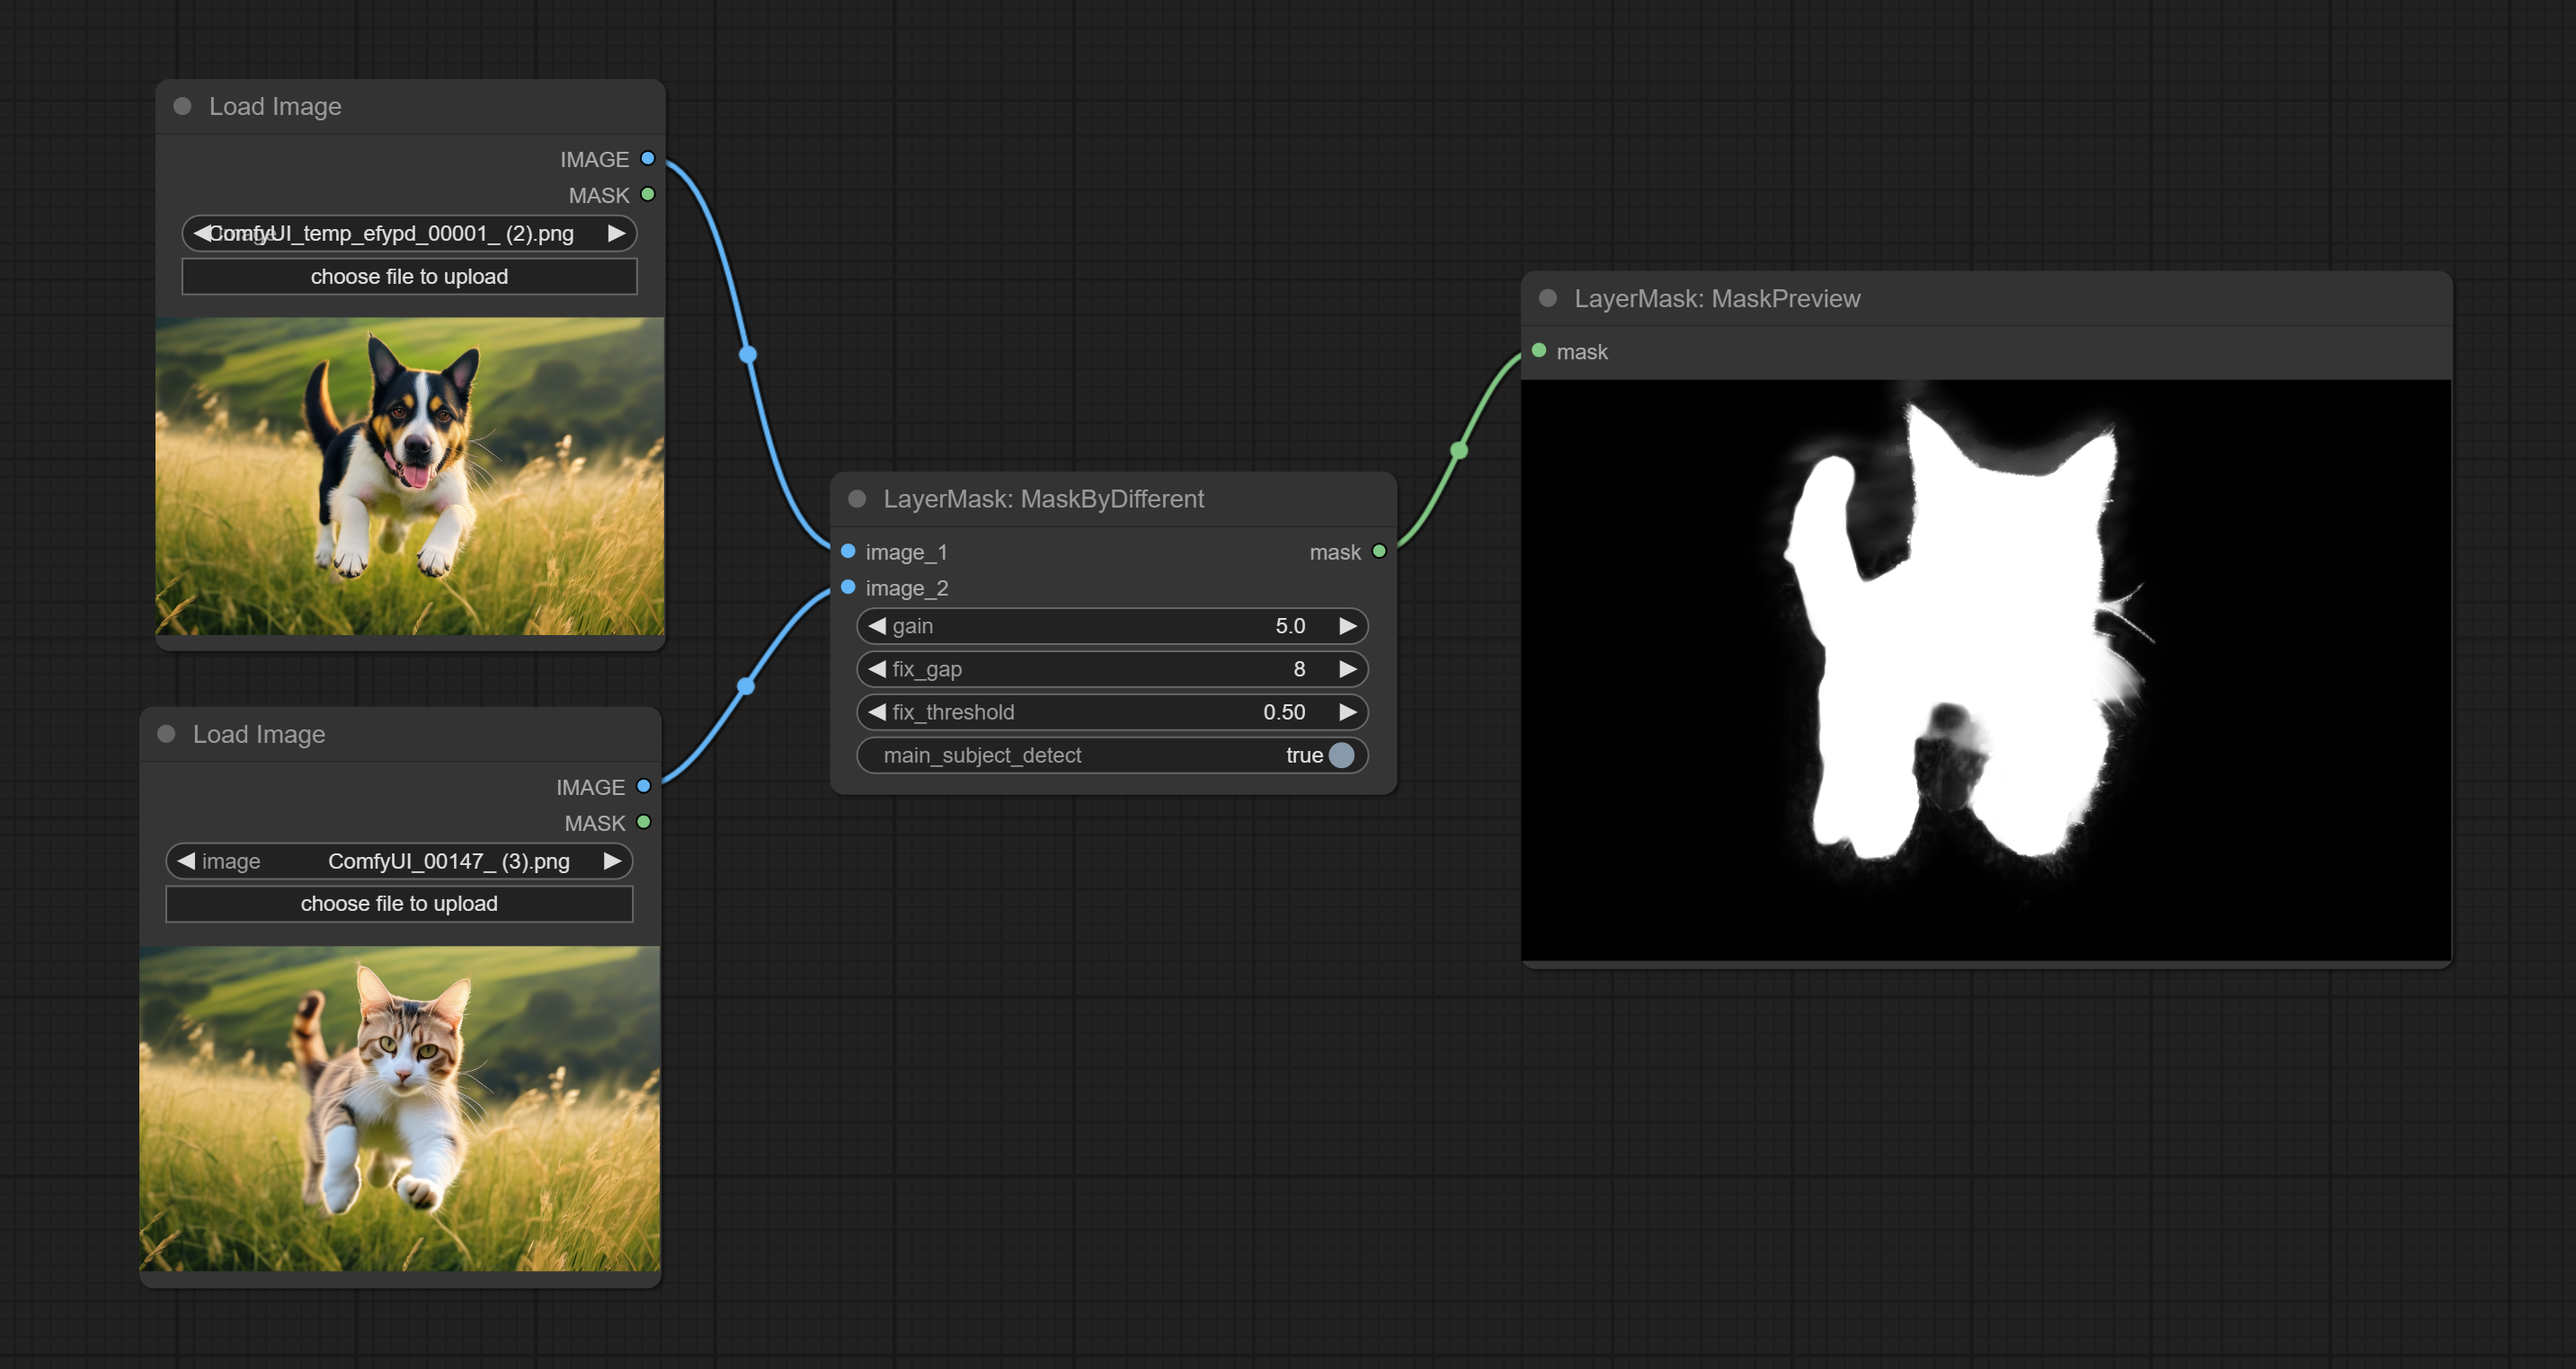
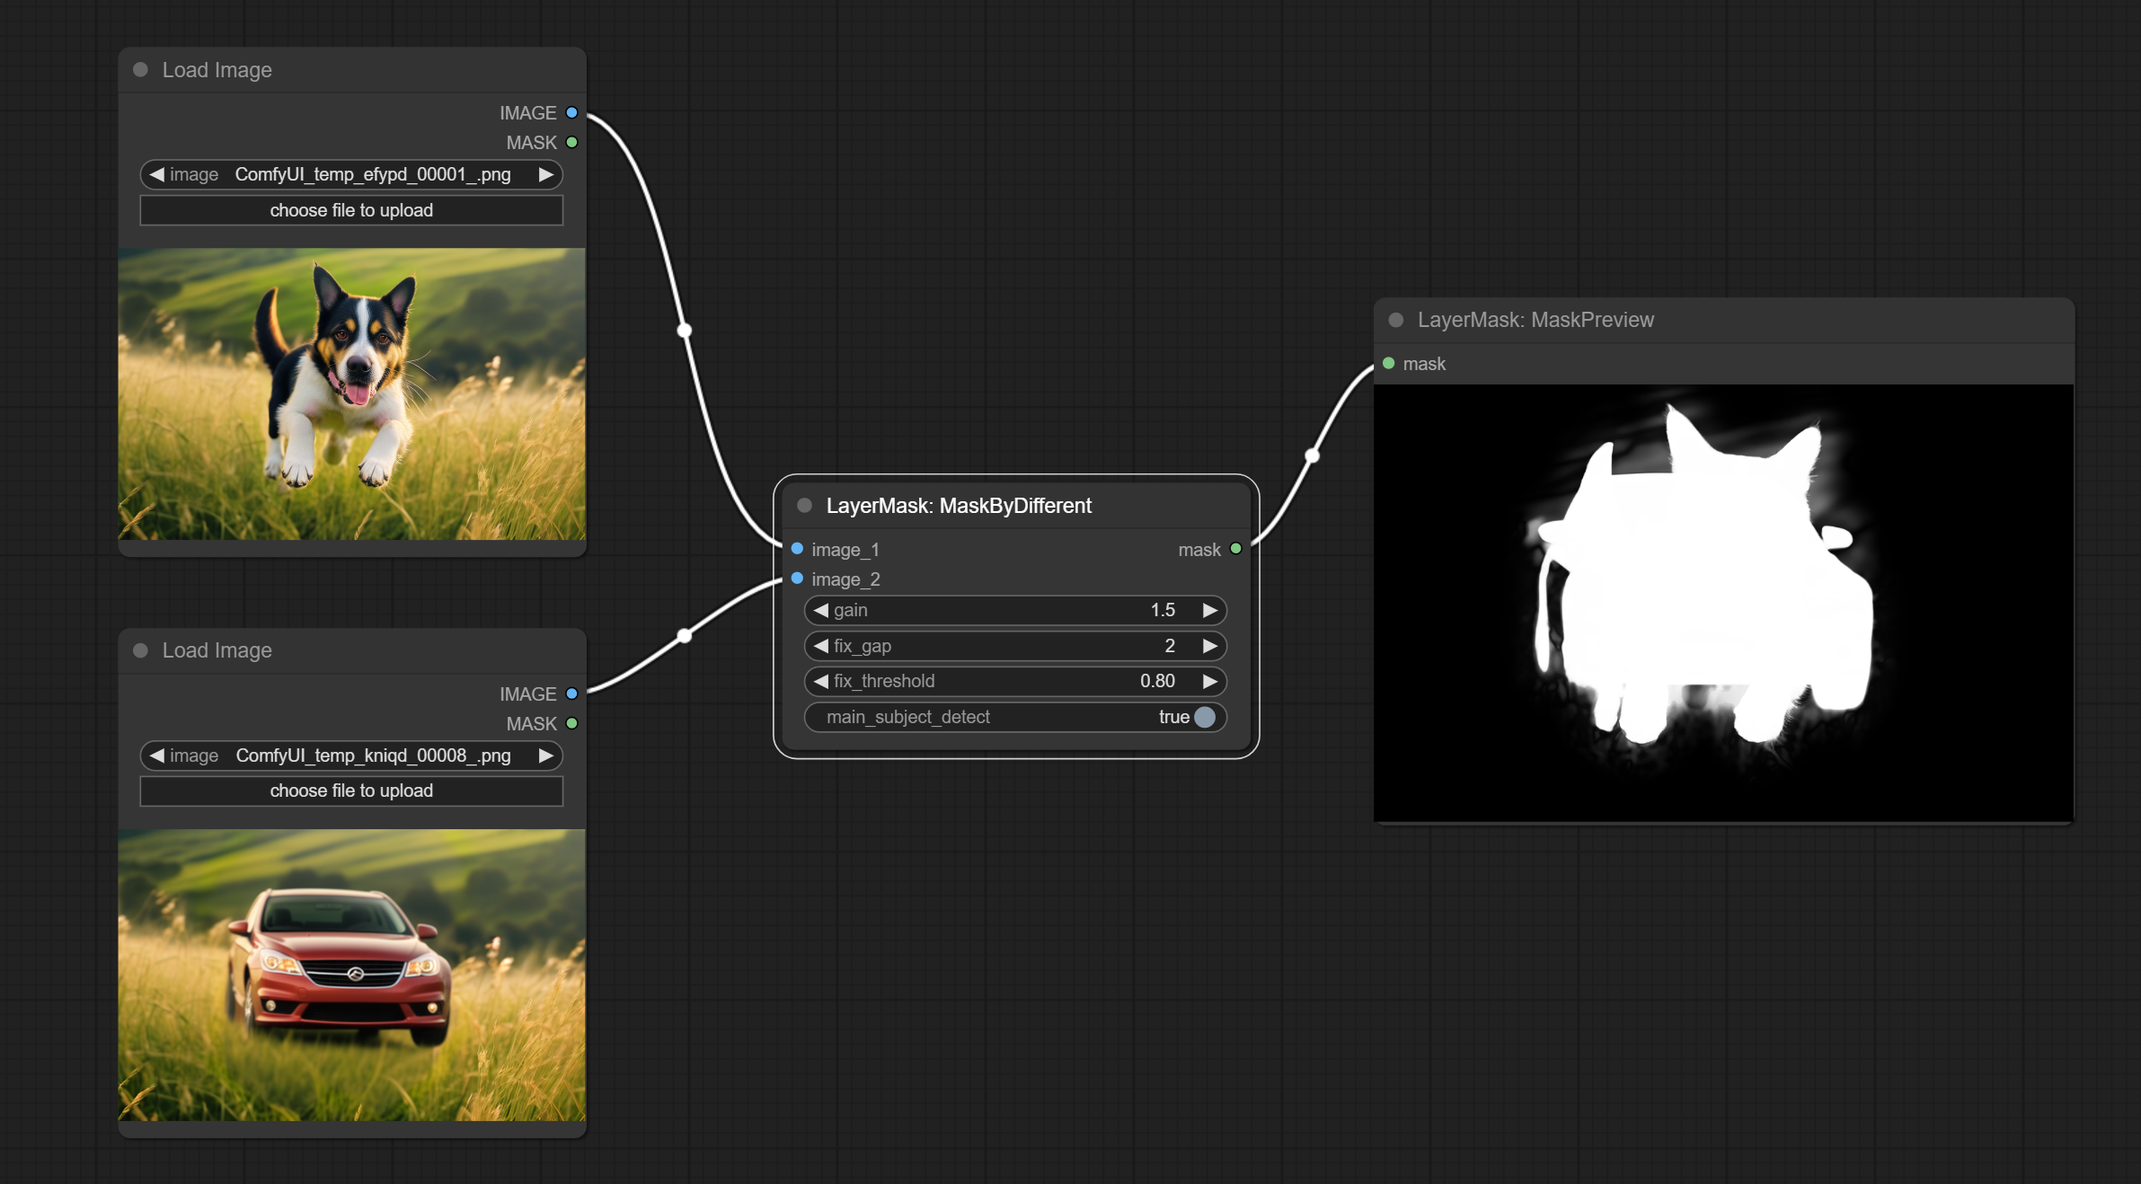
fix MaskByDifferent node's default parameters

diff --git a/py/mask_by_different.py b/py/mask_by_different.py
@@ -14,9 +14,9 @@ class MaskByDifferent:
             "required": {
                 "image_1": ("IMAGE", ),  #
                 "image_2": ("IMAGE",),  #
-                "gain": ("FLOAT", {"default": 5, "min": 0.1, "max": 100, "step": 0.1}),
-                "fix_gap": ("INT", {"default": 8, "min": 0, "max": 16, "step": 1}),
-                "fix_threshold": ("FLOAT", {"default": 0.5, "min": 0.01, "max": 1.0, "step": 0.01}),
+                "gain": ("FLOAT", {"default": 1.5, "min": 0.1, "max": 100, "step": 0.1}),
+                "fix_gap": ("INT", {"default": 4, "min": 0, "max": 16, "step": 1}),
+                "fix_threshold": ("FLOAT", {"default": 0.75, "min": 0.01, "max": 1.0, "step": 0.01}),
                 "main_subject_detect": ("BOOLEAN", {"default": True}),
             },
             "optional": {
